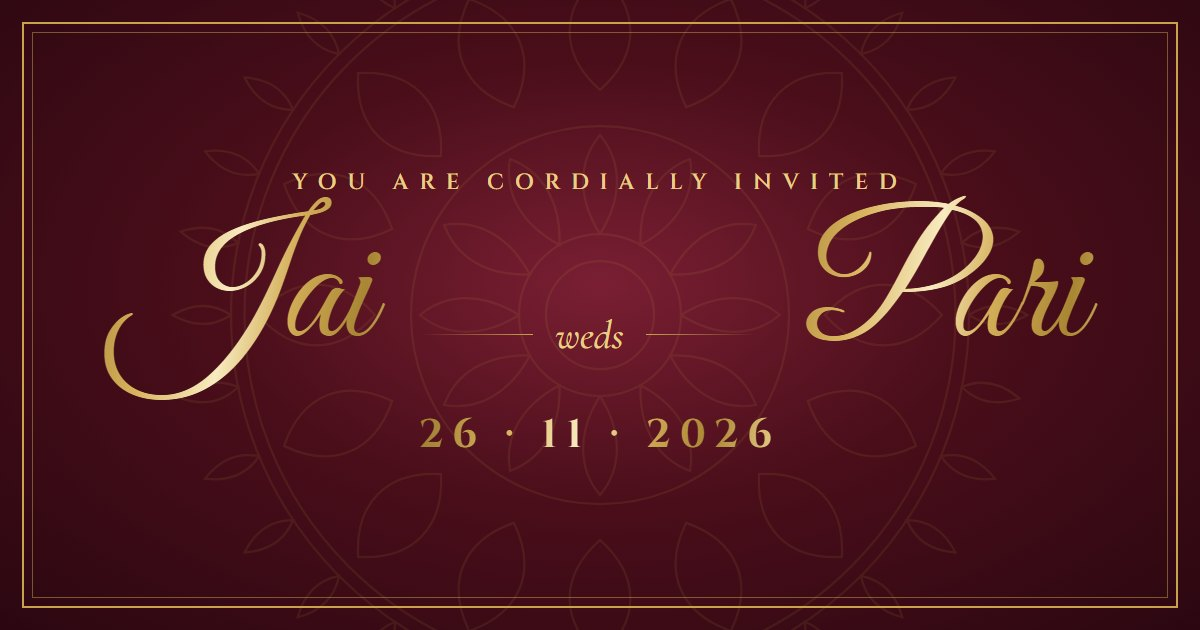
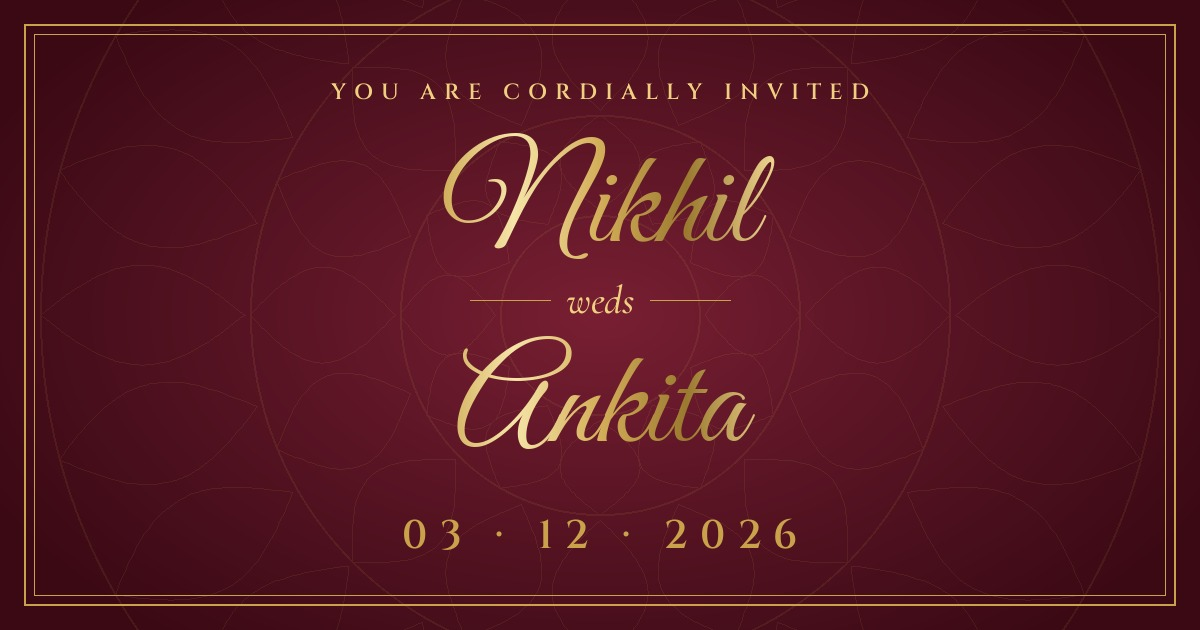
Fix link preview image/URL for Nikhil & Ankita; slideshow 3s step and 3s pause after touch

diff --git a/invite/index.html b/invite/index.html
@@ -15,16 +15,16 @@
   <meta property="og:site_name" content="Nikhil weds Ankita">
   <meta property="og:title" content="Nikhil weds Ankita | 03.12.2026">
   <meta property="og:description" content="You are cordially invited to our wedding">
-  <meta property="og:image" content="https://nikhilahuja-bright.github.io/PARI-X-JAI-WEDDING-INVITATION/assets/og-image.jpg?v=2">
+  <meta property="og:image" content="https://anuragmishra091.github.io/nikhil-weds-ankita/invite/assets/og-image.jpg?v=3">
   <meta property="og:image:type" content="image/jpeg">
   <meta property="og:image:width" content="1200">
   <meta property="og:image:height" content="630">
   <meta property="og:image:alt" content="Nikhil weds Ankita — 3rd December 2026">
-  <meta property="og:url" content="https://nikhilahuja-bright.github.io/PARI-X-JAI-WEDDING-INVITATION/">
+  <meta property="og:url" content="https://anuragmishra091.github.io/nikhil-weds-ankita/invite/">
   <meta name="twitter:card" content="summary_large_image">
   <meta name="twitter:title" content="Nikhil weds Ankita | 03.12.2026">
   <meta name="twitter:description" content="You are cordially invited to our wedding">
-  <meta name="twitter:image" content="https://nikhilahuja-bright.github.io/PARI-X-JAI-WEDDING-INVITATION/assets/og-image.jpg?v=2">
+  <meta name="twitter:image" content="https://anuragmishra091.github.io/nikhil-weds-ankita/invite/assets/og-image.jpg?v=3">
 
   <link rel="icon" type="image/png" sizes="32x32" href="assets/favicon-32.png">
   <link rel="icon" type="image/png" sizes="192x192" href="assets/favicon-192.png">

diff --git a/invite/assets/script.js b/invite/assets/script.js
@@ -463,7 +463,7 @@ const CONFIG = {
   /* ---------- slideshow autoplay ---------- */
   // ponytail: one fixed pace for every slide; per-slide timings if some need longer
   function initAutoplay() {
-    const STEP = 2000, PAUSE_AFTER_TOUCH = 12000;
+    const STEP = 3000, PAUSE_AFTER_TOUCH = 3000;
     const slides = $$(".hero, .sec, .footer");
     let timer;
     const schedule = ms => { clearTimeout(timer); timer = setTimeout(next, ms); };
